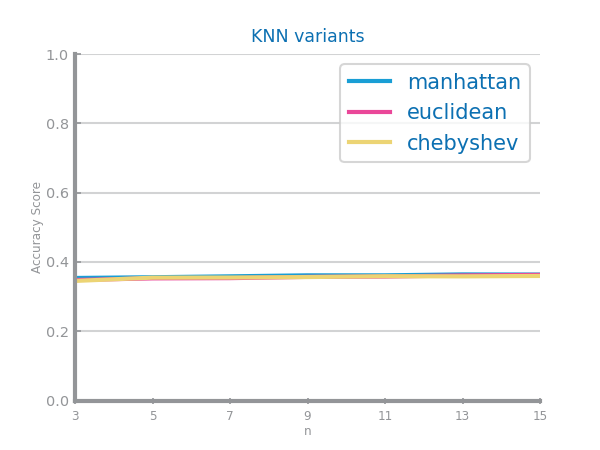
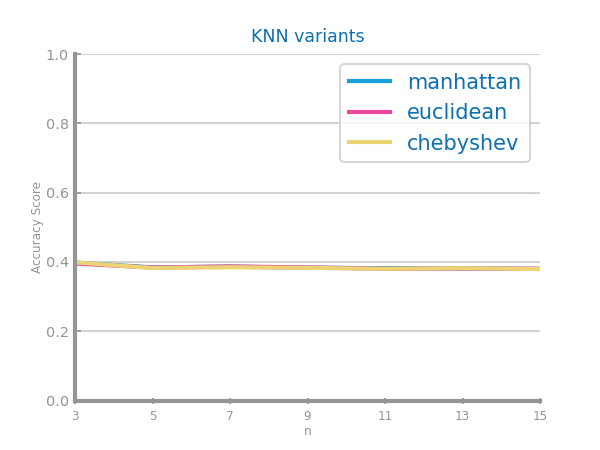
feat: new balancing

Changed region(s): [[0.12, 0.56, 0.9, 0.6533]]

diff --git a/health/src/preparation/balancing.py b/health/src/preparation/balancing.py
@@ -2,6 +2,8 @@ import pandas as pd
 from matplotlib.pyplot import figure, show
 from ds_charts import bar_chart
 from imblearn.over_sampling import SMOTENC
+from imblearn.under_sampling import ClusterCentroids
+import matplotlib.pyplot as plt
 
 class Balancing:
   
@@ -10,18 +12,17 @@ class Balancing:
     self.DETERMINISTIC_FACTOR = 3
 
   def compute_balancing(self) -> pd.DataFrame:
-    self.data = self.explore_balancing(self.data)  # we need to run this twice (we have 3 classes)
-    self.data = self.explore_balancing(self.data)
+    self.data = self.explore_balancing_smote(self.data)
     return self.data
 
-  def get_symbolic_index_array(self) -> list[int]:
+  def _get_symbolic_index_array(self) -> list[int]:
     headers = ['diabetesMed', 'change', 'race', 'gender', 'age', 'admission_type_id', 'discharge_disposition_id', 'admission_source_id', 'diag_1', 'diag_2', 'diag_3', 'A1Cresult', 'metformin', 'glimepiride', 'glipizide', 'glyburide', 'pioglitazone', 'rosiglitazone', 'insulin', 'glipizide-metformin', 'glimepiride-pioglitazone', 'troglitazone', 'tolbutamide', 'metformin-rosiglitazone']
     result = []
     for h in headers:
       result.append(self.data.columns.get_loc(h))
     return result
 
-  def explore_balancing(self, data: pd.DataFrame) -> pd.DataFrame:
+  def explore_balancing_smote(self, data: pd.DataFrame) -> pd.DataFrame:
     class_var = 'readmitted'
     target_count = data[class_var].value_counts()
     positive_class = target_count.idxmin()
@@ -33,7 +34,7 @@ class Balancing:
     print('Proportion:', round(target_count[positive_class] / target_count[negative_class], 2), ': 1')
     values = {'Original': [target_count[positive_class], target_count[negative_class]]}
 
-    smote = SMOTENC(self.get_symbolic_index_array(), sampling_strategy='minority', random_state=self.DETERMINISTIC_FACTOR)
+    smote = SMOTENC(self._get_symbolic_index_array(), sampling_strategy='auto', k_neighbors=15, random_state=self.DETERMINISTIC_FACTOR)
     y = data.pop(class_var).values
     X = data.values
     smote_X, smote_y = smote.fit_resample(X, y)
@@ -46,9 +47,25 @@ class Balancing:
     print('Majority class=', negative_class, ':', smote_target_count[negative_class])
     print('Proportion:', round(smote_target_count[positive_class] / smote_target_count[negative_class], 2), ': 1')
 
-    print(df_smote['readmitted'].value_counts())
+    print(df_smote[class_var].value_counts())
 
     return df_smote
+
+  def explore_balancing_under_sampling(self, data: pd.DataFrame) -> pd.DataFrame:
+    X = data.drop("readmitted", axis=1)
+    y = data["readmitted"]
+    cc = ClusterCentroids(random_state=0)
+    X_resampled, y_resampled = cc.fit_resample(X, y)
+    df = pd.concat([pd.DataFrame(X_resampled), pd.DataFrame(y_resampled)], axis=1)
+    return df
+
+  def explore_scatter_plot(self, data: pd.DataFrame) -> None:
+    x = data['diabetesMed'].to_numpy()
+    y = data['insulin'].to_numpy()
+    c = data['readmitted'].to_numpy()
+
+    plt.scatter(x, y, c=c, cmap='viridis')
+    plt.show()
 
   def explore_graph(self) -> None:
     class_var = 'readmitted'

diff --git a/health/src/main.py b/health/src/main.py
@@ -60,41 +60,42 @@ if __name__ == "__main__":
 
   # ----------------------------- 2º Phase -> Data preparation -------  ---------------------- #
 
-  # data = read_csv(INPUT_FILE_PATH, na_values='na')
+  data = read_csv(INPUT_FILE_PATH, na_values='na')
  
-  # parser = Parser(data, MISSING_VALUES_REPR)
-  # data = parser.parse_dataset(PREPARATION_OUT_FILE_PATH)
+  parser = Parser(data, MISSING_VALUES_REPR)
+  data = parser.parse_dataset(PREPARATION_OUT_FILE_PATH)
  
-  # mvi = MVImputation(data, MISSING_VALUES_REPR)
-  # data = mvi.compute_mv_imputation(INPUTATION_OUT_FILE_PATH)
+  mvi = MVImputation(data, MISSING_VALUES_REPR)
+  data = mvi.compute_mv_imputation(INPUTATION_OUT_FILE_PATH)
 
-  # outliers = OutliersImputation(data)
-  # data = outliers.compute_outliers()
+  outliers = OutliersImputation(data)
+  data = outliers.compute_outliers()
   
-  # scaling = Scaling(data)
-  # data = scaling.compute_scale()
+  scaling = Scaling(data)
+  data = scaling.compute_scale()
   
-  # # Removes single value columns
-  # ms = [
-  #   'acetohexamide', 'examide', 'citoglipton', 
-  # ]
-  # data = data.drop(columns=ms)
+  # Removes single value columns
+  ms = [
+    'acetohexamide', 'examide', 'citoglipton', 
+  ]
+  data = data.drop(columns=ms)
 
-  # # Splits data before evaluation
-  # X = data.drop("readmitted", axis=1)
-  # y = data["readmitted"]
-  # X_train, X_test, y_train, y_test = train_test_split(X, y, train_size=0.7)
+  # Splits data before evaluation
+  X = data.drop("readmitted", axis=1)
+  y = data["readmitted"]
+  X_train, X_test, y_train, y_test = train_test_split(X, y, train_size=0.7)
 
-  # data_train = concat([DataFrame(X_train), DataFrame(y_train)], axis=1)
+  data_train = concat([DataFrame(X_train), DataFrame(y_train)], axis=1)
 
-  # balancing = Balancing(data_train)
-  # data = balancing.compute_balancing()
-  # data.to_csv(PREPARATION_OUT_FILE_PATH_TRAIN)
+  balancing = Balancing(data_train)
+  data = balancing.compute_balancing()
+
+  data.to_csv(PREPARATION_OUT_FILE_PATH_TRAIN)
   
-  # data_test = concat([DataFrame(X_test), DataFrame(y_test)], axis=1)
-  # data_test.to_csv(PREPARATION_OUT_FILE_PATH_TEST)
+  data_test = concat([DataFrame(X_test), DataFrame(y_test)], axis=1)
+  data_test.to_csv(PREPARATION_OUT_FILE_PATH_TEST)
 
-  # # # ----------------------------- 3º Phase -> Evaluation -------  ---------------------- #
+  # ----------------------------- 3º Phase -> Evaluation -------  ---------------------- #
 
   data_train = read_csv(PREPARATION_OUT_FILE_PATH_TRAIN, na_values='na')
   data_test = read_csv(PREPARATION_OUT_FILE_PATH_TEST, na_values='na')

diff --git a/climate/src/preparation/balancing.py b/climate/src/preparation/balancing.py
@@ -32,7 +32,7 @@ class Balancing:
     print('Proportion:', round(target_count[positive_class] / target_count[negative_class], 2), ': 1')
     values = {'Original': [target_count[positive_class], target_count[negative_class]]}
 
-    smote = SMOTENC(self.get_symbolic_index_array(), sampling_strategy='minority', random_state=self.DETERMINISTIC_FACTOR)
+    smote = SMOTENC(self.get_symbolic_index_array(), sampling_strategy='auto', k_neighbors=15, random_state=self.DETERMINISTIC_FACTOR)
     y = data.pop(class_var).values
     X = data.values
     smote_X, smote_y = smote.fit_resample(X, y)
@@ -45,7 +45,7 @@ class Balancing:
     print('Majority class=', negative_class, ':', smote_target_count[negative_class])
     print('Proportion:', round(smote_target_count[positive_class] / smote_target_count[negative_class], 2), ': 1')
 
-    print(df_smote['class'].value_counts())
+    print(df_smote[class_var].value_counts())
 
     return df_smote
 
